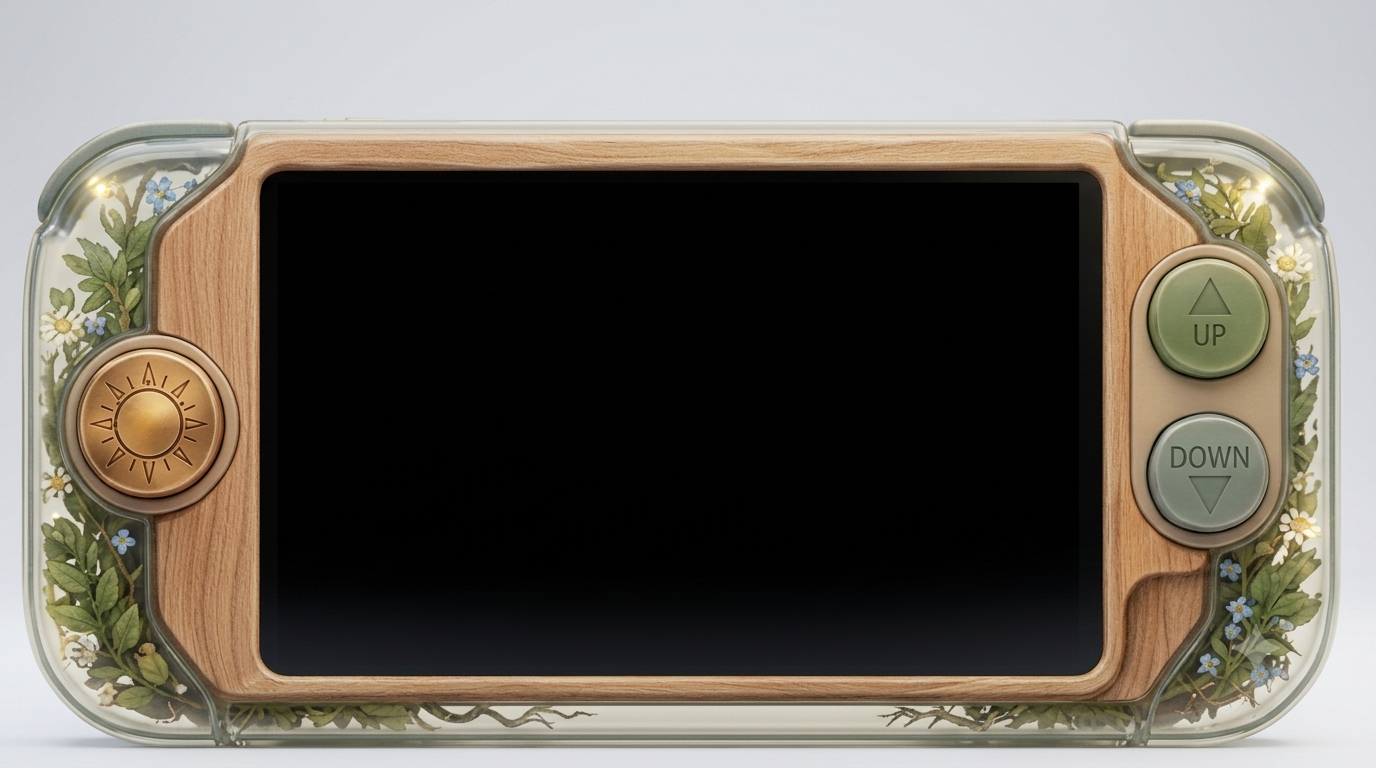
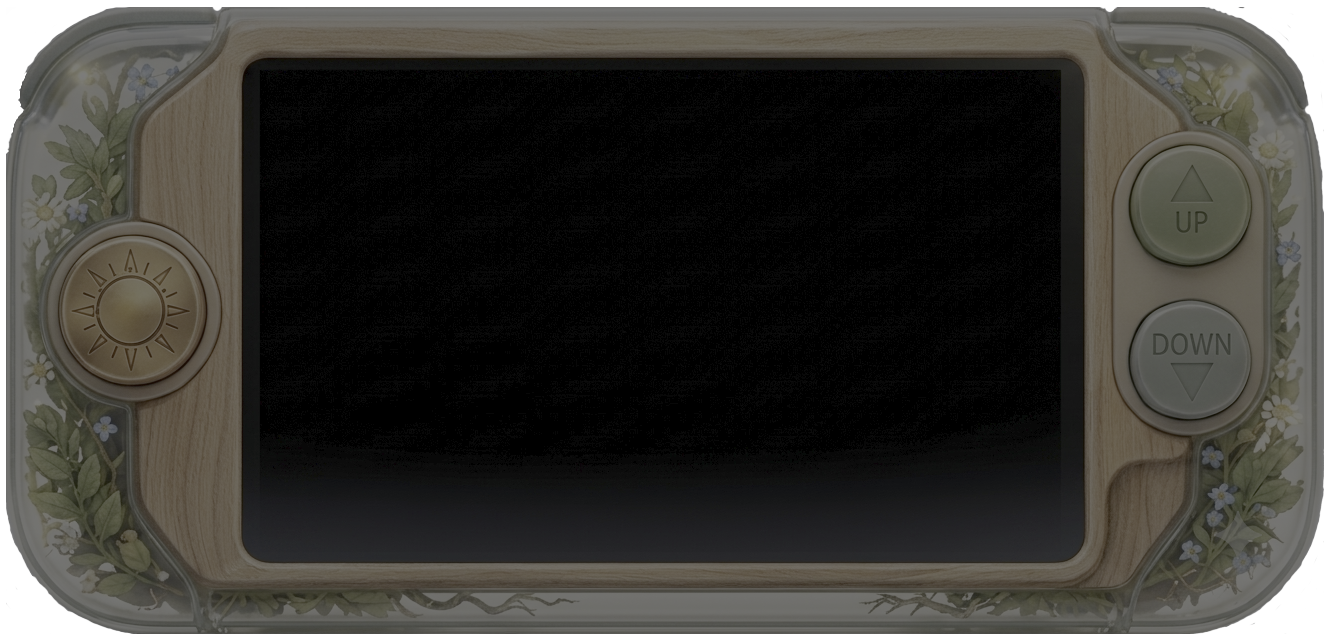
Updated bg behavior on display responsiveness

diff --git a/style.css b/style.css
@@ -1,11 +1,6 @@
 :root {
-  --bg: #f7efe7;
-  --panel: #ffffff;
   --text: #2f241d;
   --muted: #6f5b49;
-  --accent: #a96d3a;
-  --accent-dark: #7e4f24;
-  --shadow: 0 14px 40px rgba(0, 0, 0, 0.12);
 }
 
 @font-face {
@@ -28,7 +23,7 @@ body {
   font-family: "Segoe UI", Tahoma, Geneva, Verdana, sans-serif;
   color: var(--text);
   overflow: hidden;
-  background: #000;
+  background: rgba(186, 187, 191, 0.5);
 }
 
 body {
@@ -36,11 +31,12 @@ body {
 }
 
 .page-shell {
+  margin: 0 10%;
   height: 100vh;
-  width: 100vw;
+  width: 80vw;
   overflow: hidden;
   background-image: url("images/bg.png");
-  background-size: cover;
+  background-size: contain;
   background-position: center;
   background-repeat: no-repeat;
   transform-style: preserve-3d;
@@ -94,104 +90,6 @@ body {
   cursor: pointer;
 }
 
-.topbar {
-  position: sticky;
-  top: 0;
-  z-index: 20;
-  display: flex;
-  justify-content: space-between;
-  align-items: center;
-  padding: 1rem 2rem;
-  background: transparent;
-  backdrop-filter: none;
-  box-shadow: none;
-}
-
-@media (max-width: 768px) {
-  .topbar {
-    position: relative;
-    background: rgba(0, 0, 0, 0.5);
-  }
-}
-
-.brand {
-  font-family: "Canva Sans", "Segoe UI", sans-serif;
-  font-weight: 700;
-  letter-spacing: 0.14rem;
-  text-decoration: none;
-  color: #ffffff;
-  text-shadow: 0 2px 8px rgba(0, 0, 0, 0.35);
-}
-
-.nav-links {
-  display: flex;
-  gap: 1.2rem;
-}
-
-.nav-links a {
-  font-family: "Canva Sans", "Segoe UI", sans-serif;
-  text-decoration: none;
-  color: #000000;
-  font-weight: 200;
-  text-shadow: 0 2px 8px rgba(0, 0, 0, 0);
-}
-
-.nav-links a:hover {
-  color: #f8d2a5;
-}
-
-.hero {
-  height: calc(100vh - 70px);
-  display: flex;
-  align-items: center;
-  justify-content: center;
-  padding: 2rem;
-  background: transparent;
-}
-
-.hero-content {
-  width: min(760px, 100%);
-  padding: 2.4rem 2.8rem;
-  border-radius: 22px;
-  background: rgba(255, 255, 255, 0.14);
-  backdrop-filter: blur(8px);
-  color: white;
-  box-shadow: var(--shadow);
-}
-
-.eyebrow {
-  margin: 0 0 0.4rem;
-  text-transform: uppercase;
-  letter-spacing: 0.24rem;
-  font-size: 0.8rem;
-  opacity: 0.9;
-}
-
-.hero-content h1 {
-  margin: 0 0 0.8rem;
-  font-size: clamp(2rem, 4vw, 3.2rem);
-}
-
-.lead {
-  margin: 0 0 1.1rem;
-  font-size: 1.05rem;
-  line-height: 1.7;
-  color: rgba(255, 255, 255, 0.95);
-}
-
-.button {
-  display: inline-block;
-  padding: 0.8rem 1.15rem;
-  border-radius: 999px;
-  text-decoration: none;
-  background: var(--accent);
-  color: white;
-  font-weight: 700;
-}
-
-.button:hover {
-  background: var(--accent-dark);
-}
 
 .content {
   max-width: 1120px;
@@ -206,56 +104,17 @@ body {
   }
 }
 
-.panel {
-  background: var(--panel);
-  border-radius: 20px;
-  padding: 1.5rem 1.6rem;
-  box-shadow: var(--shadow);
-  margin-bottom: 1.2rem;
-}
-
-.panel h2 {
-  margin-top: 0;
-  color: var(--accent-dark);
-}
-
-.panel p,
-.card p,
-blockquote {
-  line-height: 1.7;
+.footer {
+  text-align: center;
+  padding: 1rem 1rem 2rem;
   color: var(--muted);
 }
 
-.grid {
-  display: grid;
-  grid-template-columns: repeat(3, minmax(0, 1fr));
-  gap: 1rem;
-  margin: 1.2rem 0 1.5rem;
-}
-
-.card {
-  background: var(--panel);
-  border-radius: 18px;
-  padding: 1.2rem;
-  box-shadow: var(--shadow);
-}
-
-.card h3 {
-  margin-top: 0;
-  color: var(--accent-dark);
-}
-
-.testimonials {
-  display: grid;
-  gap: 0.9rem;
-}
-
-blockquote {
-  margin: 0;
-  padding: 1rem 1.1rem;
-  border-left: 4px solid var(--accent);
-  background: #fcf6ee;
-  border-radius: 10px;
+@media (max-width: 768px) {
+  .footer {
+    background: rgba(255, 255, 255, 0.95);
+    color: var(--text);
+  }
 }
 
 .footer {

diff --git a/index.html b/index.html
@@ -10,15 +10,17 @@
   <div id="pageShell" class="page-shell">
     <div id="overlay" class="motion-overlay">
       <h2>Ready for a mobile tilt?</h2>
-      <p>Tap below to enable motion so the background tilts as you move your device.</p>
-      <button id="startBtn" class="start-button">Enable Motion</button>
+      <p>Please make sure to set your Portrait Orientation Lock to OFF.</p>
+      <button id="startBtn" class="start-button">OK</button>
     </div>
 
-    <nav class="topbar">
-      <a class="brand" href="#">Naomi's Games</a>
-    </nav>
+    <main class="content">
+      <div>
 
-    <main class="content"></main>
+        
+      </div>
+
+    </main>
 
     <footer id="contact" class="footer">
       <p>© 2026 Portfolio Games · Built for GitHub Pages</p>